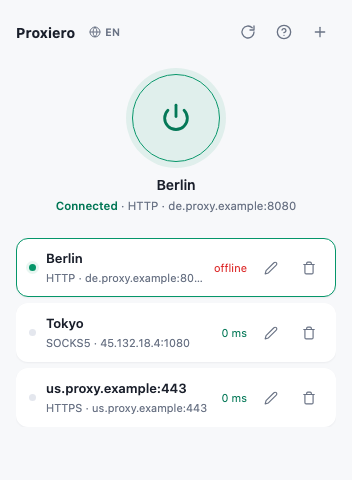
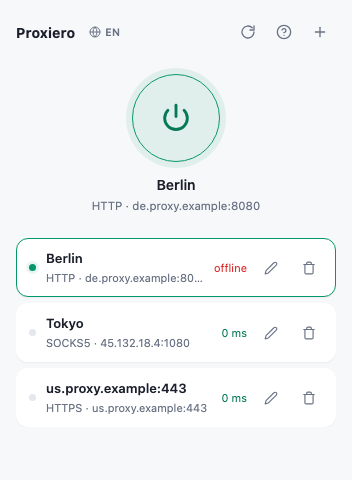
Fix CI install step, refresh README screenshots
- Regenerate package-lock.json: missing @user/* optional deps broke npm ci
- Bump actions/checkout and actions/setup-node to v5 (Node 20 runtime deprecated), Node 24
- Update docs/popup-*.png to match the simplified power caption

Changed region(s): [[0.1562, 0.4062, 0.8438, 0.4375]]

diff --git a/components/PowerSection.svelte b/components/PowerSection.svelte
@@ -24,11 +24,7 @@ async function toggle() {
   <div class="power-caption">
     {#if app.active}
       <span class="active-name">{proxyTitle(app.active)}</span>
-      <span class="active-sub">
-        <span class="state-word" class:on={app.isOn}>
-          {app.isOn ? t('connected') : t('disconnected')}
-        </span>
-        · {SCHEME_LABELS[app.active.scheme]} · {app.active.host}:{app.active.port}
+      <span class="active-sub">{SCHEME_LABELS[app.active.scheme]} · {app.active.host}:{app.active.port}
       </span>
     {:else}
       <span class="active-name muted">{t('noProxySelected')}</span>